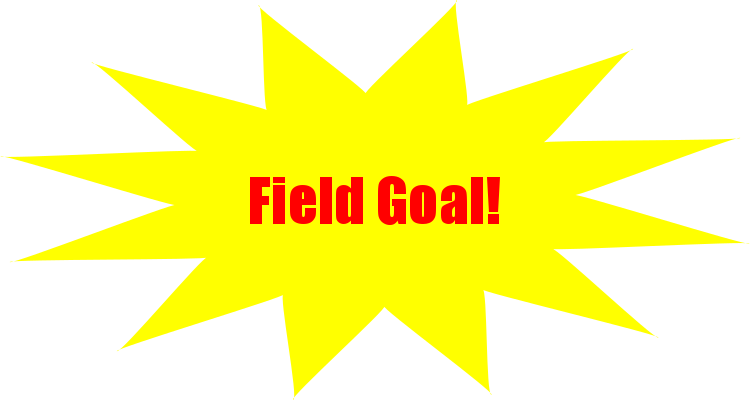
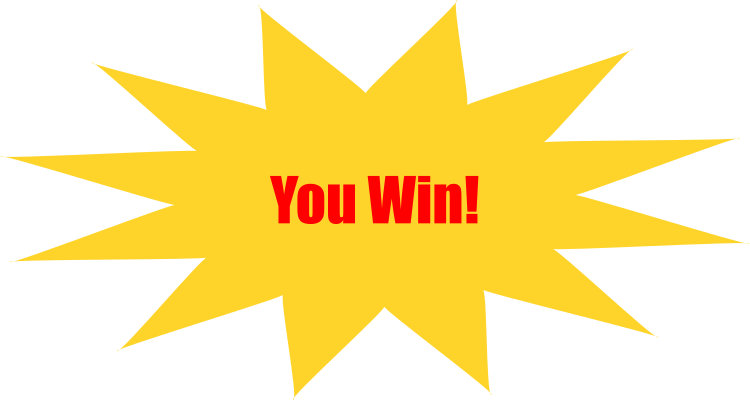
Fixed how game resets, big win/lose message on a timer
This is so fuggin cool. I'm proud of myself :)

diff --git a/src/Cards/GameCard.java b/src/Cards/GameCard.java
@@ -28,10 +28,12 @@ public class GameCard extends JPanel implements ActionListener, javax.swing.even
     Timer tAccuracy;
     Timer tPower;
     Timer tWind;
+    Timer tMessage;
     int limit = 0;  
     int aDelay = 0;
     int dDelay = 0;
     int wDelay = 0;
+    int mDelay = 0;
     int i = 0;
     int j = 0;
     int a = 1, vA = 1;
@@ -51,6 +53,9 @@ public class GameCard extends JPanel implements ActionListener, javax.swing.even
         ImageIcon southWest = new ImageIcon("images/southwest.png");
         ImageIcon east = new ImageIcon("images/east.png");
         ImageIcon west = new ImageIcon("images/west.png");
+        ImageIcon fieldgoal = new ImageIcon("images/fieldgoal.png");
+        ImageIcon blank = new ImageIcon("images/blank.png");
+        ImageIcon missed = new ImageIcon("images/missed.png");
 
     public GameCard(GameController ctrl)
     {
@@ -72,6 +77,10 @@ public class GameCard extends JPanel implements ActionListener, javax.swing.even
         tWind = new Timer(wDelay, this);
         tWind.start();
         
+        //-------MESSAGE TIMER------------------------------------------
+        mDelay = 1*1000;
+        tMessage = new Timer(mDelay, this);
+        
         //Create JButtons
         b1 = new JButton("Start Game");
         b1.addActionListener(this);
@@ -81,10 +90,16 @@ public class GameCard extends JPanel implements ActionListener, javax.swing.even
         b2.addActionListener(this);
         b2.setHorizontalAlignment(JButton.CENTER);
         
-        b6 = new JButton("Test Selection");
+        //Win or miss
+        b6 = new JButton("");
         b6.addActionListener(this);
         b6.setHorizontalAlignment(JButton.CENTER);
+        b6.setHorizontalTextPosition(SwingConstants.CENTER);
+        b6.setBorder(null);
+        b6.setBorderPainted(false);
+        b6.setContentAreaFilled(false);
         
+        //Compass
         b7 = new JButton("");
         b7.addActionListener(this);
         b7.setHorizontalAlignment(JButton.CENTER);
@@ -92,7 +107,6 @@ public class GameCard extends JPanel implements ActionListener, javax.swing.even
         b7.setBorder(null);
         b7.setBorderPainted(false);
         b7.setContentAreaFilled(false);
-        //b7.setBackground(Color.TRANSLUCENT);
         
         
         //Create Sliders
@@ -117,7 +131,7 @@ public class GameCard extends JPanel implements ActionListener, javax.swing.even
         //Add Components
         add(b1);
         add(b2);
-        //add(b6);
+        add(b6);
         add(accuracy);
         add(power);
         add(pMessage);
@@ -138,7 +152,7 @@ public class GameCard extends JPanel implements ActionListener, javax.swing.even
         power.setBounds(new Rectangle(800,400,100,300));
         b1.setBounds(new Rectangle(100,10,100,100));
         b2.setBounds(new Rectangle(100,120,100,100));
-        b6.setBounds(1000, 600, 200, 100);
+        b6.setBounds(300, 50, 750, 400);
         pMessage.setBounds(new Rectangle(100,260,200,20));
         aMessage.setBounds(new Rectangle(100,230,200,20));
         wMessage.setBounds(new Rectangle(1000,230,200,20));
@@ -179,15 +193,20 @@ public class GameCard extends JPanel implements ActionListener, javax.swing.even
                     if (winLose == 1)
                     {
                         rMessage.setText("You Win!!");
+                        b6.setIcon(fieldgoal);
+                        tAccuracy.stop();
+                        tMessage.start();
+                        
                     }
                     else {
                         rMessage.setText("You Lose :(");
+                        b6.setIcon(missed);
+                        tMessage.start();
                     }
                     System.out.println(kickPoint[0]+","+kickPoint[1]+" "+winLose);
                     
                     //----------RESETS THE GAME----------------
                     keyCounter = 0;
-                    tAccuracy.start();
                     p = 0;
                     a = 0;
                     accuracy.setValue(0);
@@ -274,7 +293,13 @@ public class GameCard extends JPanel implements ActionListener, javax.swing.even
                     wy = -1;
                     wMessage.setText("North West");
                     b7.setIcon(northWest);
-                }                   
+                }
+            }
+            if (obj == tMessage) 
+            {
+                tAccuracy.start();
+                tMessage.stop();
+                b6.setIcon(blank);
             }
             
             repaint();
